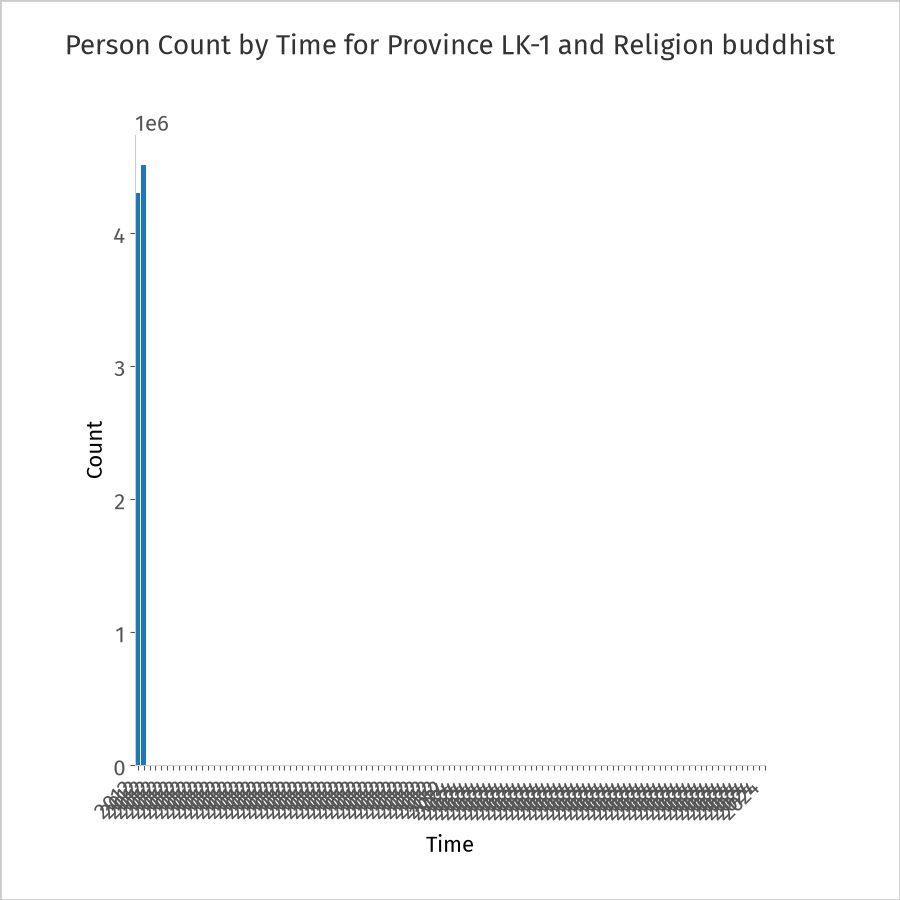
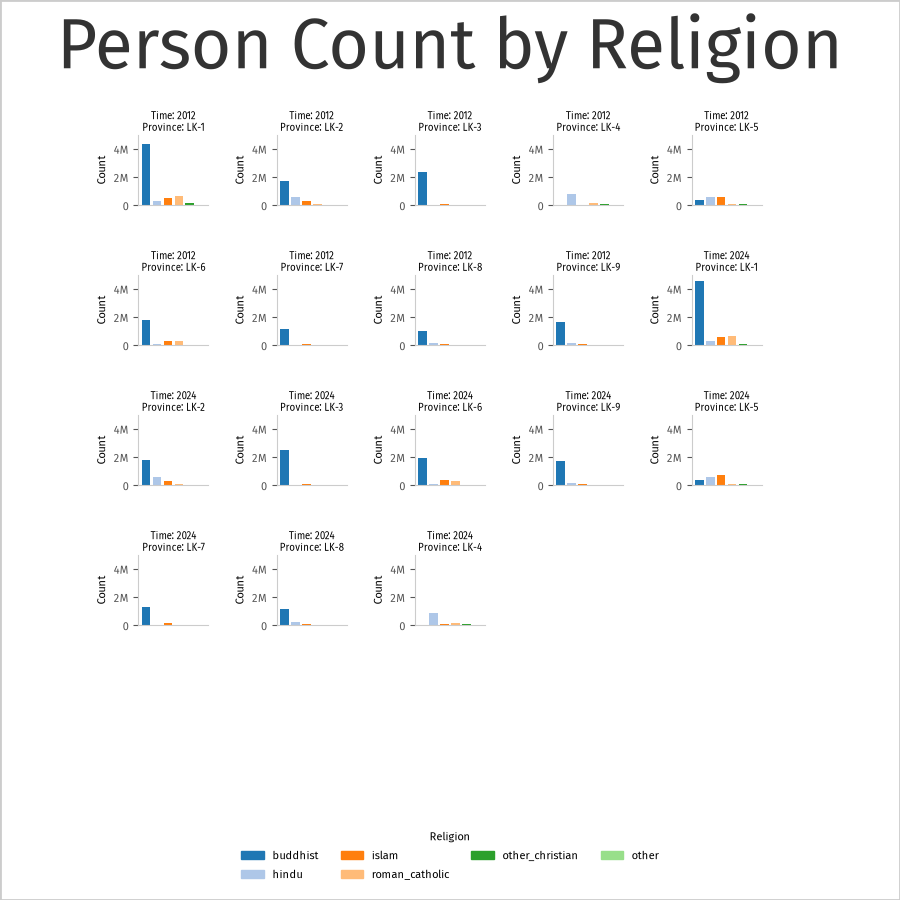
Enhance BarChart visualization with improved data handling and formatting; adjust Visual class font size and style application

diff --git a/src/ds/visual/BarChart.py b/src/ds/visual/BarChart.py
@@ -1,29 +1,38 @@
-from ds.visual.Visual import Visual
+import math
 
-IMAGE_DIR = "image"
+import matplotlib.patches as mpatches
+import matplotlib.pyplot as plt
+from matplotlib.ticker import FuncFormatter
+
+from ds.visual.Visual import Visual
 
 
 class BarChart(Visual):
 
-    def __init__(
-        self,
-        datumset,
-        x_dim_key=None,
-        y_cell_key=None,
-    ):
+    def __init__(self, datumset, x_dim_key=None, y_cell_key=None):
         super().__init__(datumset)
         query = datumset[0].query
         self.x_dim_key = x_dim_key or query.dim_labels[0]
         self.y_cell_key = y_cell_key or query.cell_labels[0]
+        split_dims = [dim for dim in query.dim_labels if dim != self.x_dim_key]
+        self.display_datumsets = datumset.split(*split_dims)
+        self.x_values = []
+        for datum in datumset:
+            x_value = datum.dim_idx[self.x_dim_key].get_value()
+            if x_value not in self.x_values:
+                self.x_values.append(x_value)
+        cmap = plt.get_cmap("tab20")
+        self.x_color_idx = {
+            x_value: cmap(i % cmap.N)
+            for i, x_value in enumerate(self.x_values)
+        }
 
-    def _get_xy(self):
+    def _get_xy(self, datumset):
         x_labels = []
         y_values = []
-        for datum in self.datumset:
+        for datum in datumset:
             x_labels.append(datum.dim_idx[self.x_dim_key].get_value())
-            y_values.append(
-                float(datum.cell_idx[self.y_cell_key].get_value())
-            )
+            y_values.append(float(datum.cell_idx[self.y_cell_key].get_value()))
         return x_labels, y_values
 
     def _excluded_dim_keys(self):
@@ -32,10 +41,99 @@ class BarChart(Visual):
     def _build_title(self):
         return f"{self.y_cell_key} by {self.x_dim_key}"
 
+    def _get_title_text(self):
+        entity = self.datumset[0].entity_class.__name__
+        return f"{entity} {self.y_cell_key} by {self.x_dim_key}"
+
+    def _get_subfigure_title(self, datumset):
+        constant_parts = []
+        first_datum = datumset[0]
+        for dim_key in first_datum.query.dim_labels:
+            if dim_key == self.x_dim_key:
+                continue
+            first_value = first_datum.dim_idx[dim_key].get_value()
+            if all(
+                datum.dim_idx[dim_key].get_value() == first_value
+                for datum in datumset
+            ):
+                constant_parts.append(f"{dim_key}: {first_value}")
+        if constant_parts:
+            return "\n".join(constant_parts)
+        return "All data"
+
+    def _format_y_value(self, value, _pos):
+        abs_value = abs(value)
+        display_value = value
+        suffix = ""
+        if abs_value >= 1000000:
+            display_value = value / 1000000
+            suffix = "M"
+        elif abs_value >= 1000:
+            display_value = value / 1000
+            suffix = "K"
+
+        if suffix:
+            return f"{display_value:g}{suffix}"
+        if value.is_integer():
+            return str(int(value))
+        return f"{value:g}"
+
+    def _format_y_axis(self, sub_ax):
+        sub_ax.yaxis.set_major_formatter(FuncFormatter(self._format_y_value))
+
+    def _get_axes(self, fig, ax):
+        n_datumsets = len(self.display_datumsets)
+        if n_datumsets == 1:
+            axes = [ax]
+            return axes, n_datumsets
+        fig.clear()
+        n_side = math.ceil(math.sqrt(n_datumsets))
+        axes = fig.subplots(nrows=n_side, ncols=n_side)
+        return axes.flatten(), n_datumsets
+
+    def _get_y_limit(self):
+        y_max = 0.0
+        for sub_datumset in self.display_datumsets:
+            _, y_values = self._get_xy(sub_datumset)
+            if y_values:
+                y_max = max(y_max, max(y_values))
+        return 1.0 if y_max <= 0 else y_max * 1.1
+
+    def _plot_subfigure(self, sub_ax, sub_datumset, y_limit):
+        x_labels, y_values = self._get_xy(sub_datumset)
+        colors = [self.x_color_idx[x_label] for x_label in x_labels]
+        sub_ax.bar(range(len(x_labels)), y_values, color=colors)
+        sub_ax.set_ylabel(self.y_cell_key)
+        sub_ax.set_ylim(0, y_limit)
+        self._format_y_axis(sub_ax)
+        sub_ax.set_xticks([])
+        sub_ax.set_box_aspect(1)
+        sub_ax.set_title(
+            self._get_subfigure_title(sub_datumset), fontsize=7, pad=3
+        )
+
+    def _add_legend(self, fig):
+        legend_handles = [
+            mpatches.Patch(color=self.x_color_idx[x_value], label=x_value)
+            for x_value in self.x_values
+        ]
+        fig.legend(
+            handles=legend_handles,
+            title=self.x_dim_key,
+            loc="lower center",
+            bbox_to_anchor=(0.5, 0.01),
+            ncol=min(4, len(legend_handles)),
+            frameon=False,
+        )
+
+    def _hide_empty_axes(self, axes, n_datumsets):
+        for empty_ax in axes[n_datumsets:]:
+            empty_ax.set_visible(False)
+
     def _plot(self, fig, ax):
-        x_labels, y_values = self._get_xy()
-        ax.bar(x_labels, y_values)
-        ax.set_xlabel(self.x_dim_key)
-        ax.set_ylabel(self.y_cell_key)
-        ax.set_xticks(range(len(x_labels)))
-        ax.set_xticklabels(x_labels, rotation=45, ha="right")
+        axes, n_datumsets = self._get_axes(fig, ax)
+        y_limit = self._get_y_limit()
+        for sub_ax, sub_datumset in zip(axes, self.display_datumsets):
+            self._plot_subfigure(sub_ax, sub_datumset, y_limit)
+        self._add_legend(fig)
+        self._hide_empty_axes(axes, n_datumsets)

diff --git a/src/ds/visual/Visual.py b/src/ds/visual/Visual.py
@@ -27,7 +27,7 @@ class Visual(ABC):
     SUBTITLE_COLOR = "#555555"
     DIR_FONTS = os.path.join("media", "fonts", "Fira_Sans")
     FONT_FAMILY = "Fira Sans"
-    FONT_SIZE = 16
+    FONT_SIZE = 8
 
     def __init__(self, datumset, *params):
         self.datumset = datumset
@@ -102,18 +102,21 @@ class Visual(ABC):
         )
         fig.add_artist(border)
 
-    def _apply_style(self, fig, ax):
-        ax.spines["top"].set_visible(False)
-        ax.spines["right"].set_visible(False)
-        ax.spines["left"].set_color(self.BORDER_COLOR)
-        ax.spines["bottom"].set_color(self.BORDER_COLOR)
-        ax.tick_params(colors=self.SUBTITLE_COLOR)
+    def _apply_style(self, fig, axes):
+        for ax in axes:
+            ax.spines["top"].set_visible(False)
+            ax.spines["right"].set_visible(False)
+            ax.spines["left"].set_color(self.BORDER_COLOR)
+            ax.spines["bottom"].set_color(self.BORDER_COLOR)
+            ax.tick_params(colors=self.SUBTITLE_COLOR)
         SUBPLOT_PADDING = 0.15
         fig.subplots_adjust(
             top=1 - SUBPLOT_PADDING,
             bottom=SUBPLOT_PADDING,
             left=SUBPLOT_PADDING,
             right=1 - SUBPLOT_PADDING,
+            hspace=1.0,
+            wspace=0.8,
         )
 
     def _set_font(self):
@@ -133,7 +136,7 @@ class Visual(ABC):
         self._plot(fig, ax)
         self._add_title(fig)
         self._add_border(fig)
-        self._apply_style(fig, ax)
+        self._apply_style(fig, fig.axes)
         fig.savefig(self.image_file.path)
         log.debug(f"Wrote {self.image_file}")
         plt.close(fig)

diff --git a/tests/test_visual.py b/tests/test_visual.py
@@ -5,17 +5,8 @@ from ds import LankaData, VisualFactory
 
 class TestCase(unittest.TestCase):
     def test_method(self):
-        query_str_list = ["Person/Time*Province*Religion/Count"]
 
-        for query_str in query_str_list:
-            for VisualClass in VisualFactory.visual_class_list():
-                with self.subTest(
-                    query_str=query_str,
-                    visual_class_name=VisualClass.__name__,
-                ):
-
-                    datumset = LankaData[query_str]
-
-                    visual = VisualClass(datumset)
-                    visual.draw()
-                    self.assertTrue(visual.image_file.exists())
+        datumset = LankaData["Person/Time*Province*Religion/Count"]
+        visual = VisualFactory["BarChart"](datumset, "Religion", "Count")
+        visual.draw()
+        self.assertTrue(visual.image_file.exists())

diff --git a/src/ds/visual/VisualFactory.py b/src/ds/visual/VisualFactory.py
@@ -1,7 +1,8 @@
 from ds.visual.BarChart import BarChart
-from ds.visual.MapVisual import MapVisual
-from ds.visual.PieChart import PieChart
-from ds.visual.StackedBarChart import StackedBarChart
+
+# from ds.visual.MapVisual import MapVisual
+# from ds.visual.PieChart import PieChart
+# from ds.visual.StackedBarChart import StackedBarChart
 
 
 class VisualFactory:
@@ -10,9 +11,9 @@ class VisualFactory:
     def visual_class_list(cls):
         return [
             BarChart,
-            MapVisual,
-            PieChart,
-            StackedBarChart,
+            # MapVisual,
+            # PieChart,
+            # StackedBarChart,
         ]
 
     @classmethod

diff --git a/tests/test_datumset.py b/tests/test_datumset.py
@@ -42,7 +42,7 @@ TEST_DATUMSET = Datumset.from_data(
                 },
             },
         }
-    },
+    }
 )
 
 
